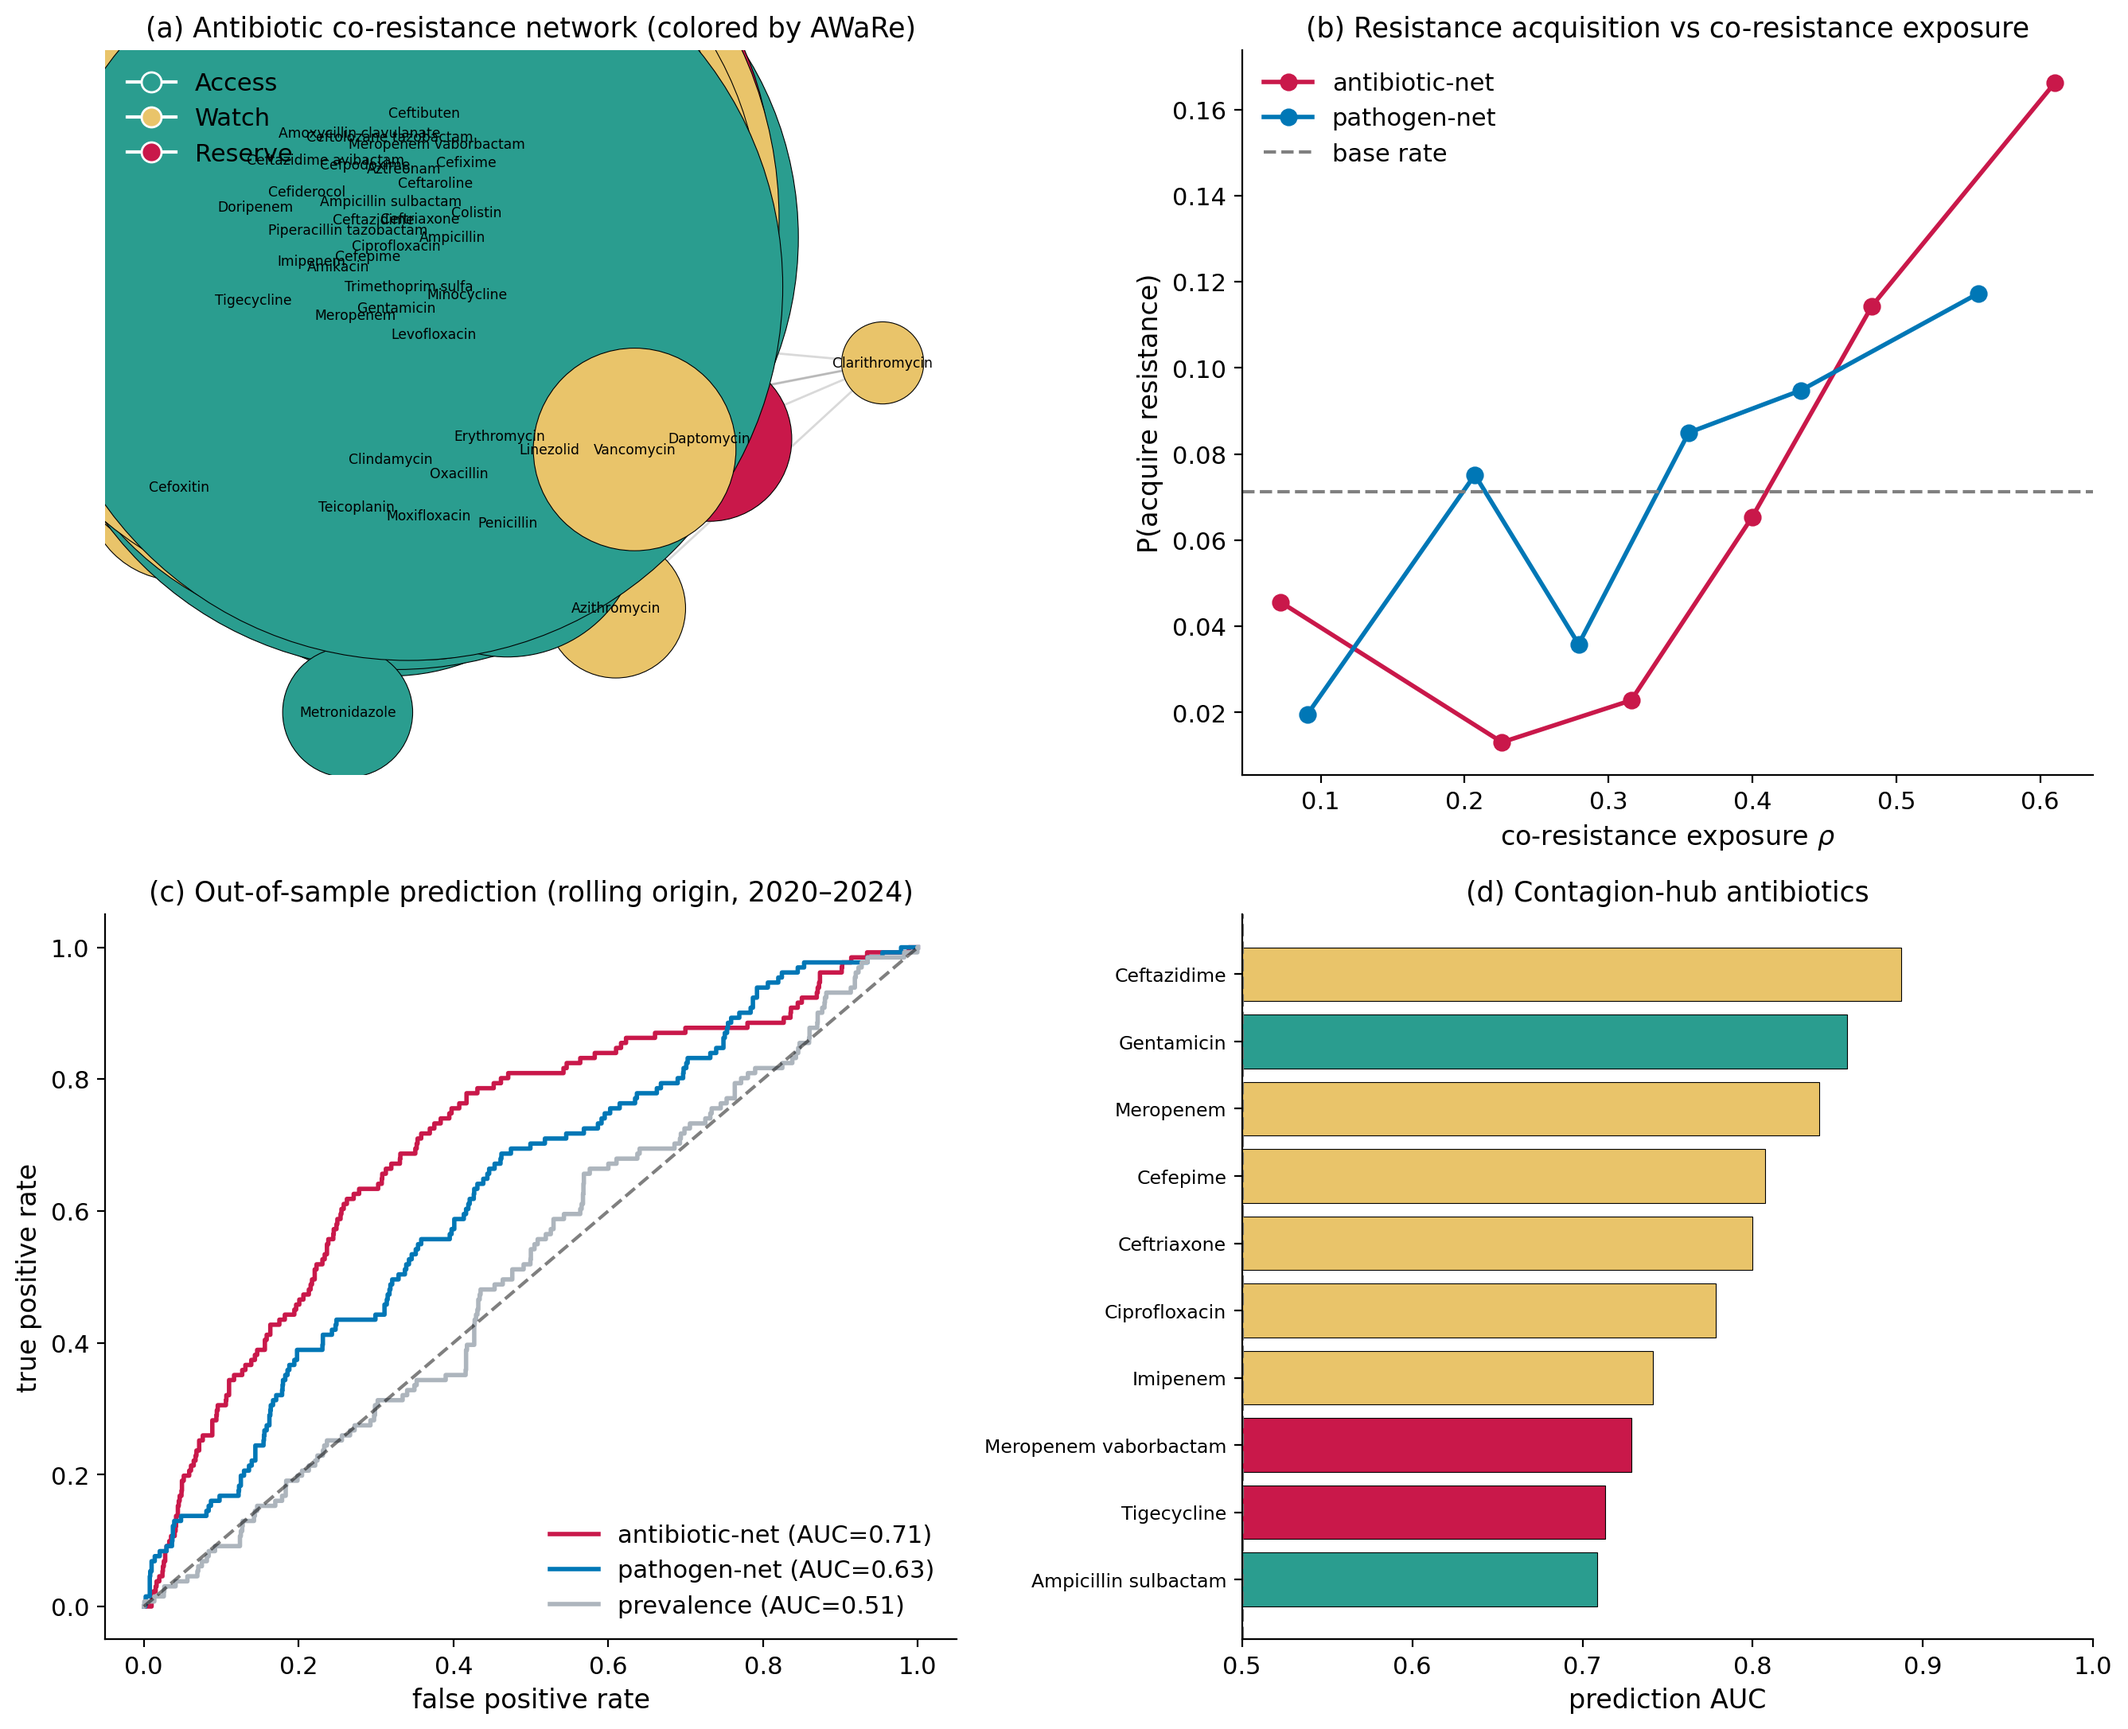
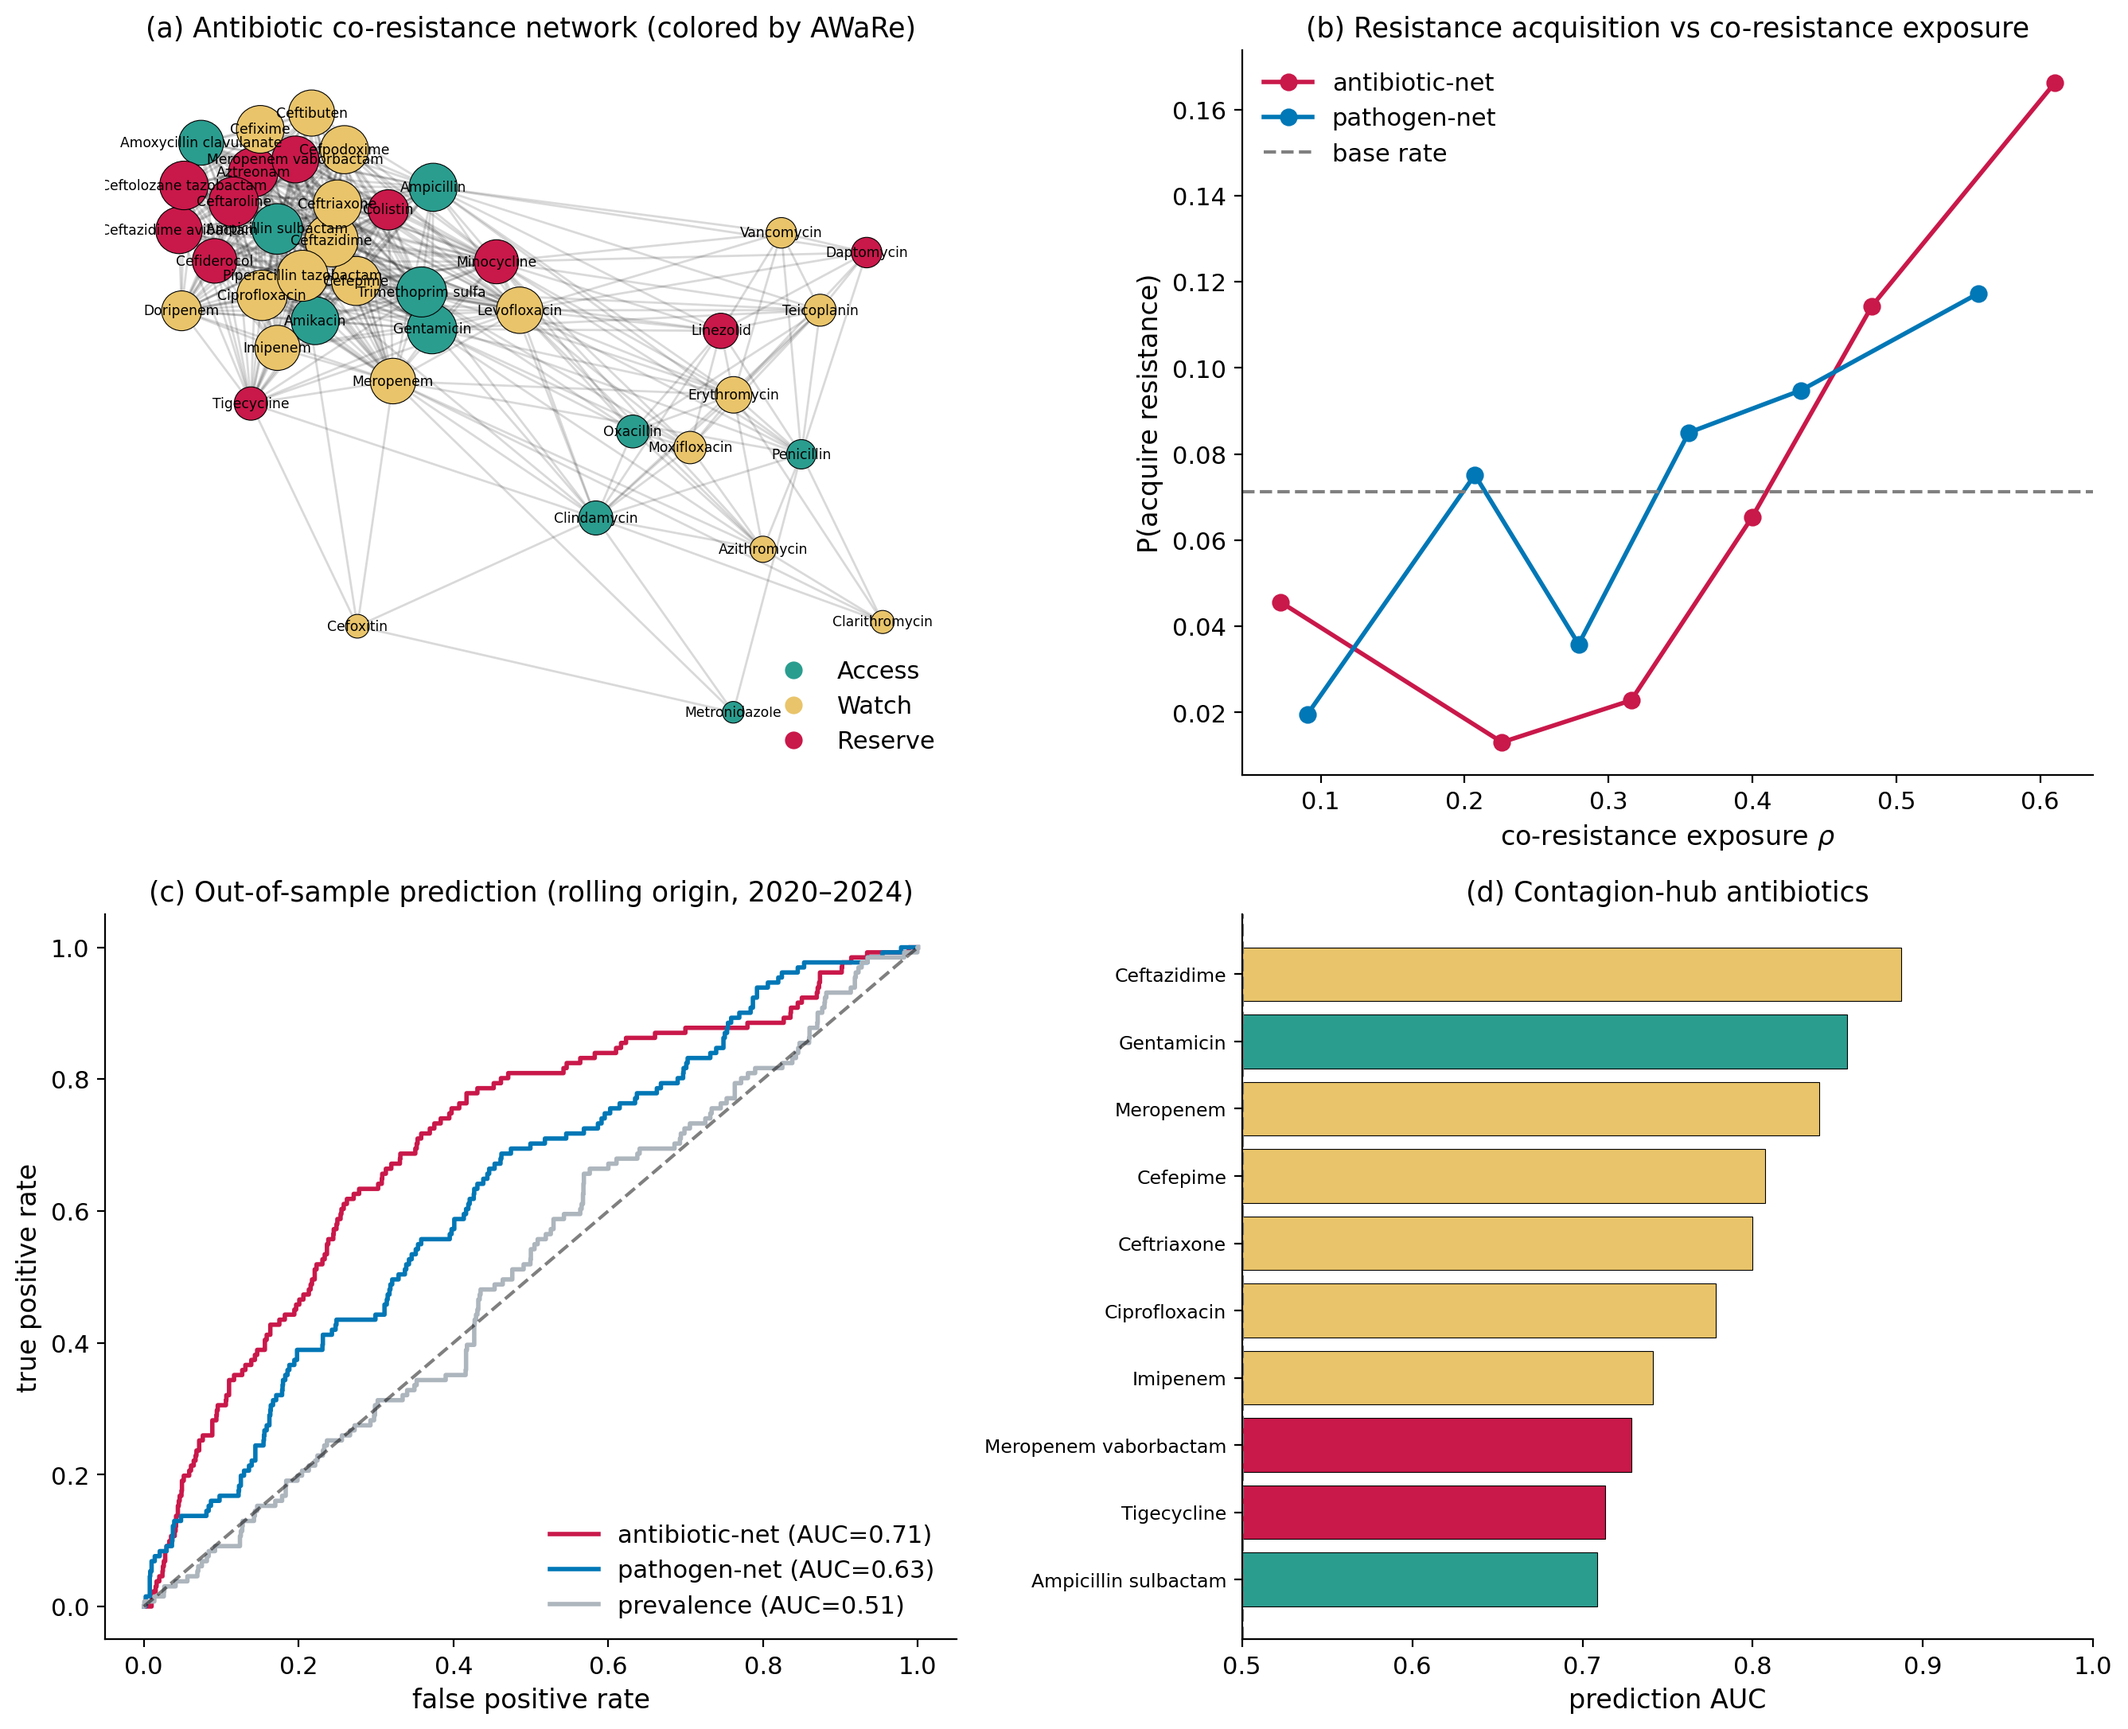
Fix Fig 4a: normalise co-occurrence for network display
Node sizes scaled with weighted degree, which after the co-occurrence migration
spans 5..500+, so the panel rendered a few giant blobs. Use degree-normalised
(cosine) co-occurrence for the layout and node sizing (display only; the forecast
still uses raw co-occurrence), matching the dashboard, and move the AWaRe legend
to the empty lower-right corner.

Changed region(s): [[0.031, 0.0308, 0.4346, 0.4625]]

diff --git a/reproduce_paper.py b/reproduce_paper.py
@@ -390,18 +390,28 @@ def stage_figures(S, C, hub):
     # ---- FIGURE 4 -------------------------------------------------------------
     te = C.copy()
     hb10 = hub.reset_index().sort_values("AUC", ascending=False).head(10)
-    W = cooc_cols(M); G = nx.from_pandas_adjacency(W)
+    # For display, normalise the co-occurrence by drug degree (cosine): raw counts span
+    # 5..500+, which collapses the force layout onto a few hubs and makes degree-scaled node
+    # sizes explode. This affects only the drawing; the forecast uses raw co-occurrence.
+    W = cooc_cols(M)
+    kdeg = M.sum(0).reindex(W.columns).to_numpy(float)
+    den = np.sqrt(np.outer(kdeg, kdeg)); den[den == 0] = 1.0
+    Wn = pd.DataFrame(W.to_numpy() / den, index=W.index, columns=W.columns)
+    np.fill_diagonal(Wn.values, 0.0)
+    G = nx.from_pandas_adjacency(Wn)
     G.remove_edges_from([(u, v) for u, v, d in G.edges(data=True) if d["weight"] <= 0])
-    posl = nx.spring_layout(G, weight="weight", seed=1, k=0.7)
+    posl = nx.spring_layout(G, weight="weight", seed=1, k=1.1, iterations=300)
     fig, ax = plt.subplots(2, 2, figsize=(13.5, 11))
-    ncol = [colA.get(AWARE.get(n, 2), "#cccccc") for n in G.nodes()]; deg = dict(G.degree(weight="weight"))
+    ncol = [colA.get(AWARE.get(n, 2), "#cccccc") for n in G.nodes()]
+    deg = dict(G.degree(weight="weight")); mxd = max(deg.values()) or 1.0
     nx.draw_networkx_edges(G, posl, ax=ax[0, 0], alpha=0.15, width=1)
-    nx.draw_networkx_nodes(G, posl, ax=ax[0, 0], node_color=ncol, node_size=[80 + deg[n] * 260 for n in G.nodes()],
+    nx.draw_networkx_nodes(G, posl, ax=ax[0, 0], node_color=ncol,
+        node_size=[60 + 520 * (deg[n] / mxd) for n in G.nodes()],
         edgecolors="k", linewidths=0.4)
     nx.draw_networkx_labels(G, posl, ax=ax[0, 0], font_size=6.2)
     ax[0, 0].set_title("(a) Antibiotic co-resistance network (colored by AWaRe)"); ax[0, 0].axis("off")
     ax[0, 0].legend(handles=[Line2D([0], [0], marker='o', color='w', markerfacecolor=colA[l], markersize=9, label=n)
-        for l, n in [(1, "Access"), (2, "Watch"), (3, "Reserve")]], loc="upper left", frameon=False)
+        for l, n in [(1, "Access"), (2, "Watch"), (3, "Reserve")]], loc="lower right", frameon=False)
     for col, c, lab in [("rho_abx", "#c9184a", "antibiotic-net"), ("rho_path", "#0077b6", "pathogen-net")]:
         t = te.copy(); t["b"] = pd.qcut(t[col].rank(method="first"), 6, labels=False)
         g = t.groupby("b").agg(x=(col, "mean"), p=("label", "mean"))
